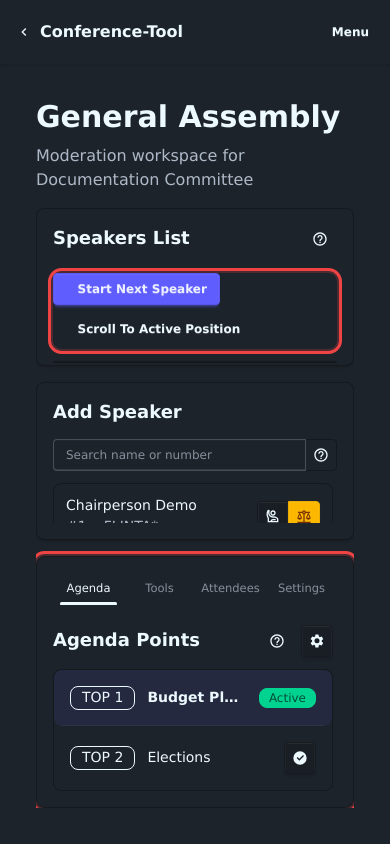
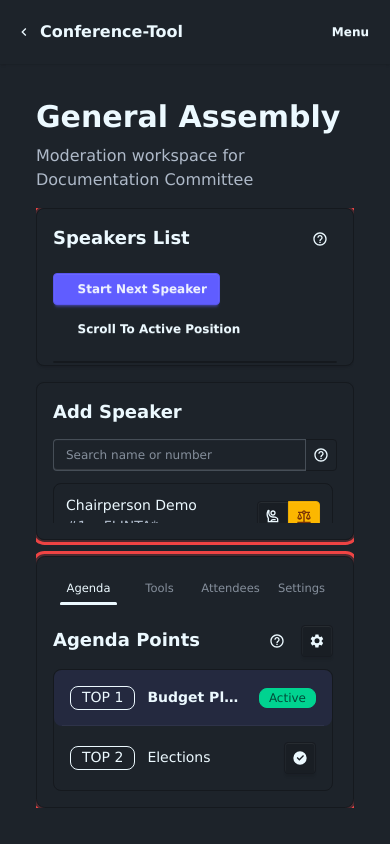
feat(docs): fix moderate screenshot timeout, add 4 new capture scripts
Fix moderate-overview screenshot that waited 30s for #moderate-votes-panel
in a hidden tab — now highlights the right-column speakers stack instead.

Add 4 new screenshot scripts:
- app.screenshot-admin-login: admin login card with back button
- app.screenshot-admin-dashboard: committee list and responsive form
- app.screenshot-meeting-wizard: 4-step wizard dialog at agenda step
- app.screenshot-join-qr-dialog: QR code dialog with copy URL

Add image references in the corresponding EN/DE doc pages.
Add SetSpeakerDone and RecomputeSpeakerOrder helpers to seeder.

Changed region(s): [[0.1231, 0.3081, 0.8923, 0.4313], [0.0923, 0.6161, 0.9231, 0.6469]]

diff --git a/tools/docscapture/scripts/app.go b/tools/docscapture/scripts/app.go
@@ -166,10 +166,7 @@ func appScreenshotModerateOverviewScript() Script {
 					if err := page.Locator("#moderate-sse-root").WaitFor(); err != nil {
 						return fmt.Errorf("wait moderate root: %w", err)
 					}
-					if err := highlightMany(page, "#moderate-left-controls", "#speakers-list-container"); err != nil {
-						return err
-					}
-					if err := highlightFirstAvailable(page, "#moderate-votes-panel"); err != nil {
+					if err := highlightMany(page, "#moderate-left-controls", "#moderate-right-resizable-stack"); err != nil {
 						return err
 					}
 					return nil
@@ -389,6 +386,185 @@ func appScreenshotReceiptsVaultScript() Script {
 						return fmt.Errorf("wait receipts controls: %w", err)
 					}
 					if err := highlightMany(page, "#receipts-refresh", "#receipts-clear", "#receipts-list"); err != nil {
+						return err
+					}
+					return nil
+				},
+			})
+		},
+	}
+}
+
+func appScreenshotAdminLoginScript() Script {
+	return Script{
+		Name:        "app.screenshot-admin-login",
+		Description: "Admin login page with card styling and back button",
+		Run: func(ctx context.Context, common docscapture.CommonOptions, variant docscapture.Variant, env *docscapture.Environment) (string, error) {
+			common.BaseURL = env.BaseURL()
+			return docscapture.RunScreenshotScenario(docscapture.ScreenshotScenarioOptions{
+				Common:      common,
+				Variant:     variant,
+				OutputName:  appOutputName("app-admin-login", variant, "png"),
+				FullPage:    true,
+				InitialPath: "/admin/login",
+				Scenario: func(page playwright.Page) error {
+					if err := page.Locator("fieldset.fieldset").WaitFor(); err != nil {
+						return fmt.Errorf("wait admin login card: %w", err)
+					}
+					if err := highlight(page, "fieldset.fieldset"); err != nil {
+						return err
+					}
+					return nil
+				},
+			})
+		},
+	}
+}
+
+func appScreenshotAdminDashboardScript() Script {
+	return Script{
+		Name:        "app.screenshot-admin-dashboard",
+		Description: "Admin dashboard with committee list and responsive form",
+		Run: func(ctx context.Context, common docscapture.CommonOptions, variant docscapture.Variant, env *docscapture.Environment) (string, error) {
+			if _, err := seedAppFixture(ctx, env.Seeder()); err != nil {
+				return "", err
+			}
+			if _, err := env.Seeder().CreateAdminAccount(ctx, "admin-docs", "admin-docs-pass", "Admin Demo"); err != nil {
+				return "", err
+			}
+			common.BaseURL = env.BaseURL()
+			return docscapture.RunScreenshotScenario(docscapture.ScreenshotScenarioOptions{
+				Common:     common,
+				Variant:    variant,
+				OutputName: appOutputName("app-admin-dashboard", variant, "png"),
+				FullPage:   true,
+				Scenario: func(page playwright.Page) error {
+					if err := gotoPath(page, common.BaseURL, "/admin/login"); err != nil {
+						return err
+					}
+					if err := page.Locator("input[name='username']").Fill("admin-docs"); err != nil {
+						return fmt.Errorf("fill admin username: %w", err)
+					}
+					if err := page.Locator("input[name='password']").Fill("admin-docs-pass"); err != nil {
+						return fmt.Errorf("fill admin password: %w", err)
+					}
+					if err := page.Locator("input[name='password']").Press("Enter"); err != nil {
+						return fmt.Errorf("submit admin login: %w", err)
+					}
+					if err := page.WaitForURL(absoluteURL(common.BaseURL, "/admin")); err != nil {
+						return fmt.Errorf("wait admin dashboard: %w", err)
+					}
+					if err := page.Locator("#committee-list").WaitFor(); err != nil {
+						return fmt.Errorf("wait committee list: %w", err)
+					}
+					if err := highlightMany(page, "#create-committee-form", "#committee-list"); err != nil {
+						return err
+					}
+					return nil
+				},
+			})
+		},
+	}
+}
+
+func appScreenshotMeetingWizardScript() Script {
+	return Script{
+		Name:        "app.screenshot-meeting-wizard",
+		Description: "Meeting creation wizard dialog showing the agenda step",
+		Run: func(ctx context.Context, common docscapture.CommonOptions, variant docscapture.Variant, env *docscapture.Environment) (string, error) {
+			fixture, err := seedAppFixture(ctx, env.Seeder())
+			if err != nil {
+				return "", err
+			}
+			common.BaseURL = env.BaseURL()
+			return docscapture.RunScreenshotScenario(docscapture.ScreenshotScenarioOptions{
+				Common:     common,
+				Variant:    variant,
+				OutputName: appOutputName("app-meeting-wizard", variant, "png"),
+				FullPage:   false,
+				Scenario: func(page playwright.Page) error {
+					if err := loginUser(page, common.BaseURL, fixture.ChairUsername, fixture.ChairPassword); err != nil {
+						return err
+					}
+					if err := gotoPath(page, common.BaseURL, committeePath(fixture)); err != nil {
+						return err
+					}
+					createBtn := page.Locator("[data-testid='committee-create-form']")
+					if err := createBtn.WaitFor(); err != nil {
+						return fmt.Errorf("wait create meeting button: %w", err)
+					}
+					if err := createBtn.Click(); err != nil {
+						return fmt.Errorf("click create meeting: %w", err)
+					}
+					// Fill basics and advance to agenda step
+					if err := page.Locator("#wizard-name").Fill("Example Meeting"); err != nil {
+						return fmt.Errorf("fill wizard name: %w", err)
+					}
+					nextBtn := page.Locator("dialog .modal-action button.btn-primary")
+					if err := nextBtn.Click(); err != nil {
+						return fmt.Errorf("click next: %w", err)
+					}
+					// Wait for the agenda step editor to appear
+					if err := page.Locator("[data-agenda-import-lines]").WaitFor(); err != nil {
+						return fmt.Errorf("wait agenda editor: %w", err)
+					}
+					// Type example agenda
+					if err := page.Locator("#agenda-import-source").Fill("1. Opening\n2. Reports\n  2.1 Chair report\n  2.2 Treasurer report\n3. Motions\n4. Closing"); err != nil {
+						return fmt.Errorf("fill agenda: %w", err)
+					}
+					page.WaitForTimeout(500)
+					if err := highlight(page, "dialog .modal-box"); err != nil {
+						return err
+					}
+					return nil
+				},
+			})
+		},
+	}
+}
+
+func appScreenshotJoinQRDialogScript() Script {
+	return Script{
+		Name:        "app.screenshot-join-qr-dialog",
+		Description: "Join QR code dialog with QR image and copy URL button",
+		Run: func(ctx context.Context, common docscapture.CommonOptions, variant docscapture.Variant, env *docscapture.Environment) (string, error) {
+			fixture, err := seedAppFixture(ctx, env.Seeder())
+			if err != nil {
+				return "", err
+			}
+			common.BaseURL = env.BaseURL()
+			return docscapture.RunScreenshotScenario(docscapture.ScreenshotScenarioOptions{
+				Common:     common,
+				Variant:    variant,
+				OutputName: appOutputName("app-join-qr-dialog", variant, "png"),
+				FullPage:   false,
+				Scenario: func(page playwright.Page) error {
+					if err := loginUser(page, common.BaseURL, fixture.ChairUsername, fixture.ChairPassword); err != nil {
+						return err
+					}
+					if err := gotoPath(page, common.BaseURL, moderatePath(fixture)); err != nil {
+						return err
+					}
+					if err := page.Locator("#moderate-sse-root").WaitFor(); err != nil {
+						return fmt.Errorf("wait moderate root: %w", err)
+					}
+					// Switch to attendees tab
+					if err := page.Locator("[data-moderate-left-tab='attendees']").Click(); err != nil {
+						return fmt.Errorf("click attendees tab: %w", err)
+					}
+					// Click show signup QR
+					qrBtn := page.Locator("button[title='Show signup QR']")
+					if err := qrBtn.WaitFor(); err != nil {
+						return fmt.Errorf("wait QR button: %w", err)
+					}
+					if err := qrBtn.Click(); err != nil {
+						return fmt.Errorf("click QR button: %w", err)
+					}
+					// Wait for QR image in dialog
+					if err := page.Locator("#join-qr-dialog #join-qr-code").WaitFor(); err != nil {
+						return fmt.Errorf("wait QR code image: %w", err)
+					}
+					if err := highlight(page, "#join-qr-dialog .modal-box"); err != nil {
 						return err
 					}
 					return nil

diff --git a/tools/docscapture/seeder.go b/tools/docscapture/seeder.go
@@ -253,6 +253,17 @@ func (s *Seeder) SetSpeakerSpeaking(ctx context.Context, speakerID, agendaPointI
 	return nil
 }
 
+func (s *Seeder) SetSpeakerDone(ctx context.Context, speakerID int64) error {
+	if err := s.repo.SetSpeakerDone(ctx, speakerID); err != nil {
+		return fmt.Errorf("set speaker %d done: %w", speakerID, err)
+	}
+	return nil
+}
+
+func (s *Seeder) RecomputeSpeakerOrder(ctx context.Context, agendaPointID int64) error {
+	return s.repo.RecomputeSpeakerOrder(ctx, agendaPointID)
+}
+
 func (s *Seeder) CreateAttachment(
 	ctx context.Context,
 	agendaPointID int64,

diff --git a/tools/docscapture/scripts/scripts.go b/tools/docscapture/scripts/scripts.go
@@ -30,6 +30,10 @@ func All() []Script {
 		appScreenshotGuestSignupFormScript(),
 		appScreenshotAttendeeLoginScript(),
 		appScreenshotReceiptsVaultScript(),
+		appScreenshotAdminLoginScript(),
+		appScreenshotAdminDashboardScript(),
+		appScreenshotMeetingWizardScript(),
+		appScreenshotJoinQRDialogScript(),
 		appGIFMemberJoinToLiveScript(),
 		appGIFSpeakerLifecycleModerateToLiveScript(),
 		appGIFVoteLifecycleOpenAndSecretScript(),

diff --git a/doc/content/03-chairperson/08-join-qr-and-access-hand-off.de.md b/doc/content/03-chairperson/08-join-qr-and-access-hand-off.de.md
@@ -5,6 +5,8 @@ title-de: Join QR und Zugangsübergabe
 
 # Join-QR und Zugangsübergabe
 
+![Join-QR-Dialog](../../assets/captures/app-join-qr-dialog.de.light.desktop.png)
+
 Nutze diese Werkzeuge, um Personen schnell beitreten zu lassen und Gästen, die ihren Zugang verloren haben, zu helfen.
 
 ## Für wen diese Seite gedacht ist

diff --git a/doc/content/02-admin/01-admin-login-and-dashboard.de.md b/doc/content/02-admin/01-admin-login-and-dashboard.de.md
@@ -5,6 +5,8 @@ title-de: Admin-Login und Dashboard
 
 # Admin-Login und Dashboard
 
+![Admin-Anmeldeseite](../../assets/captures/app-admin-login.de.light.desktop.png)
+
 Auf dieser Seite öffnest du den Admin-Bereich und stellst sicher, dass du für Admin-Aufgaben bereit bist.
 
 ## Für wen diese Seite gedacht ist

diff --git a/doc/content/03-chairperson/08-join-qr-and-access-hand-off.en.md b/doc/content/03-chairperson/08-join-qr-and-access-hand-off.en.md
@@ -5,6 +5,8 @@ title-de: Join QR und Zugangsübergabe
 
 # Join QR and Access Hand-Off
 
+![Join QR dialog](../../assets/captures/app-join-qr-dialog.en.light.desktop.png)
+
 Use these tools to help people join quickly and to restore access for guests who lost their login.
 
 ## Who this is for

diff --git a/doc/content/02-admin/01-admin-login-and-dashboard.en.md b/doc/content/02-admin/01-admin-login-and-dashboard.en.md
@@ -5,6 +5,8 @@ title-de: Admin-Login und Dashboard
 
 # Admin Login and Dashboard
 
+![Admin login page](../../assets/captures/app-admin-login.en.light.desktop.png)
+
 Use this page to open the admin area and confirm you are ready for admin tasks.
 
 ## Who this is for
